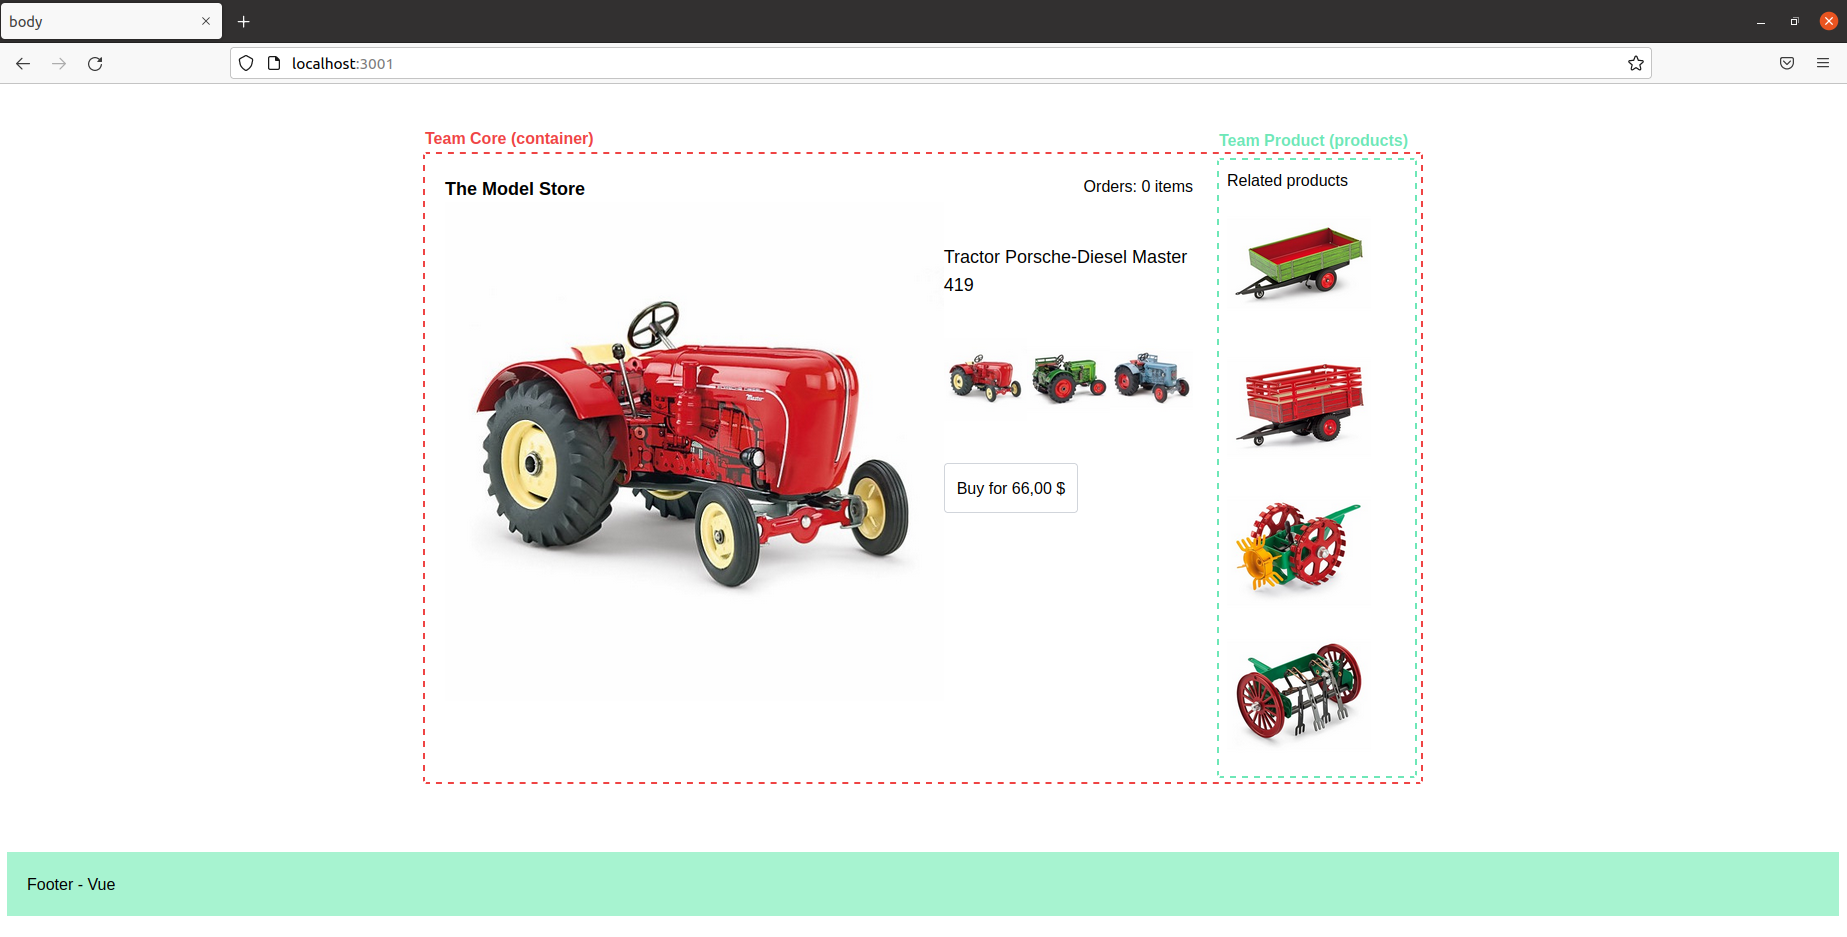
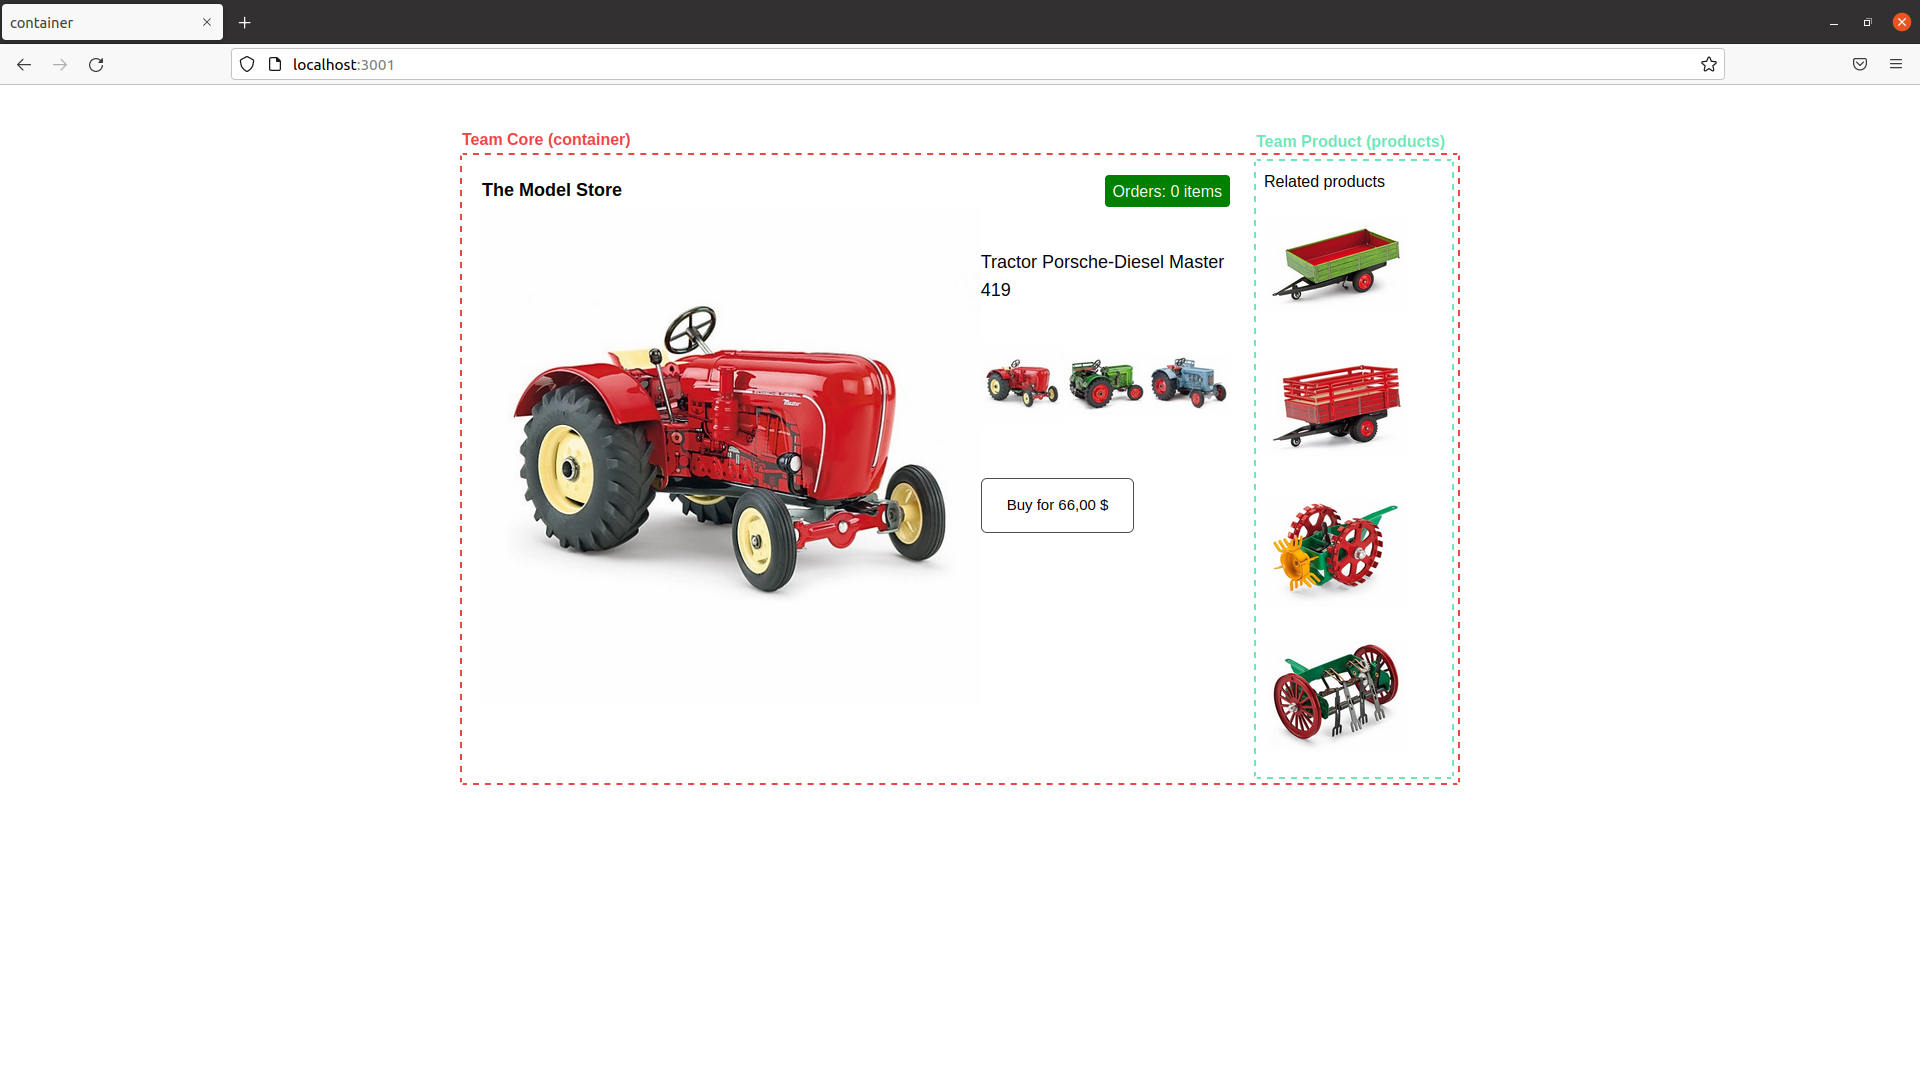
Update README.md

diff --git a/README.md b/README.md
@@ -196,7 +196,7 @@ npm start
 
 ![Footer](./documents/photos/Footer.png "Footer")
 
-###2. Create micro app "body", this app is the container contains our other micro frontends.
+###2. Create micro app "container", this app is the container contains our other micro frontends.
 
 - Install following packages:
   ![packages.json](./documents/photos/body%20packages.png "packages.json")
@@ -244,7 +244,7 @@ module.exports = (_, argv) => ({
         publicPath:
             argv.mode === "development"
                 ? "http://localhost:3001/"
-                : "https://luca-webpack-mfe-body.surge.sh/",
+                : "https://luca-webpack-mfe-container.surge.sh/",
     },
 
     resolve: {
@@ -288,7 +288,7 @@ module.exports = (_, argv) => ({
 
     plugins: [
         new ModuleFederationPlugin({
-            name: "body",
+            name: "container",
             filename: "remoteEntry.js",
             // remotes: {
             //     footer:
@@ -337,10 +337,10 @@ module.exports = (_, argv) => ({
 ```
 
 - The main app in PORT 3001
-  I named this micro frontend app: body. You can see in the line:
+  I named this micro frontend app: container. You can see in the line:
 
 ```
-name: "body",
+name: "container",
 ```
 
 We need to set a name for the chunk file:
@@ -349,7 +349,7 @@ We need to set a name for the chunk file:
 filename: "remoteEntry.js"
 ```
 
-To use micro app in body, set remotes line:
+To use micro app in container, set remotes line:
 
 ```
             remotes: {
@@ -371,7 +371,7 @@ const ReactButton = React.lazy(() => import("payment/ReactButton"));
 const AmountItem = React.lazy(() => import("payment/AmountItem"));
 ```
 
-After importing components, we can use them in body micro-app
+After importing components, we can use them in container micro-app
 
 ### Noted:
 
@@ -409,7 +409,7 @@ npm start
 ```
 
 ```sh
-cd body
+cd container
 npm install
 npm start
 ```
@@ -448,13 +448,13 @@ npm start
 Deployment:
 I use Surge.sh to deploy the applications.
 
-| Page     | Link                                        |
-| -------- | ------------------------------------------- |
-| body     | https://luca-webpack-mfe-body.surge.sh/     |
-| products | https://luca-webpack-mfe-products.surge.sh/ |
-| header   | https://luca-webpack-mfe-header.surge.sh/   |
-| footer   | https://luca-webpack-mfe-footer.surge.sh/   |
-| payment  | https://luca-webpack-mfe-payment.surge.sh/  |
+| Page      | Link                                         |
+| --------- | -------------------------------------------- |
+| container | https://luca-webpack-mfe-container.surge.sh/ |
+| products  | https://luca-webpack-mfe-products.surge.sh/  |
+| header    | https://luca-webpack-mfe-header.surge.sh/    |
+| footer    | https://luca-webpack-mfe-footer.surge.sh/    |
+| payment   | https://luca-webpack-mfe-payment.surge.sh/   |
 
 ## License
 
